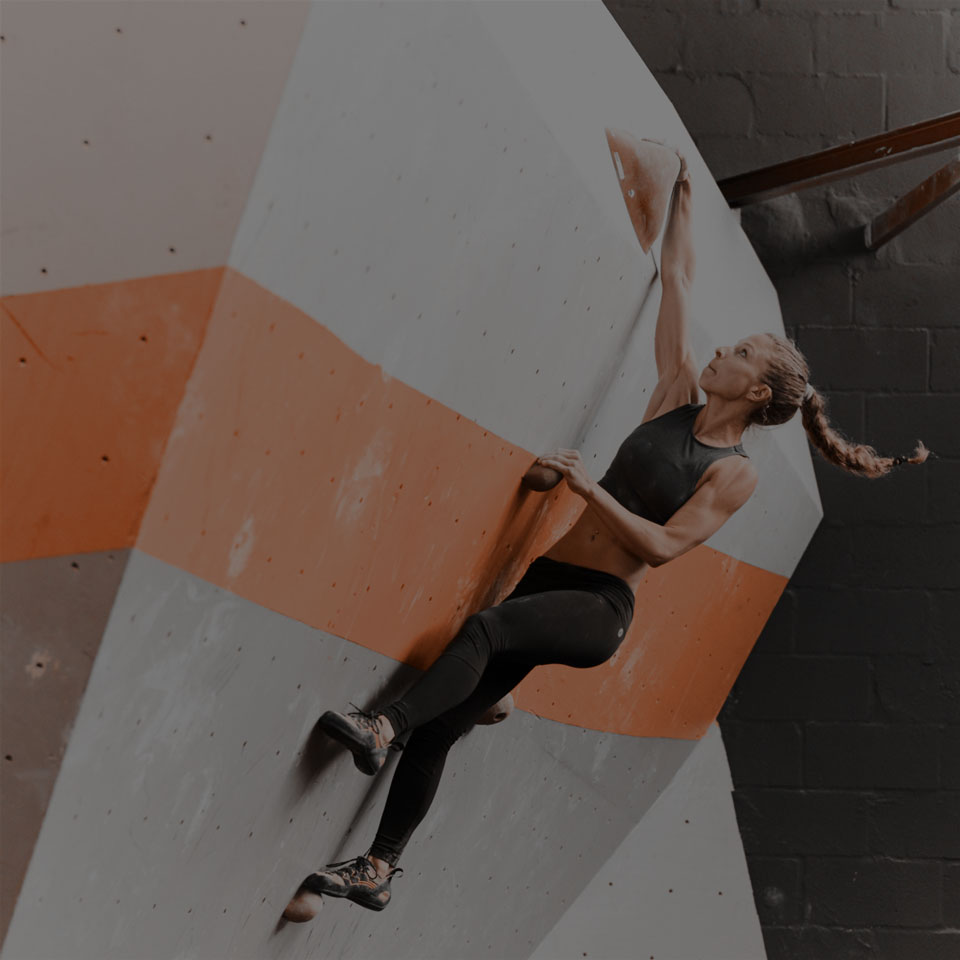
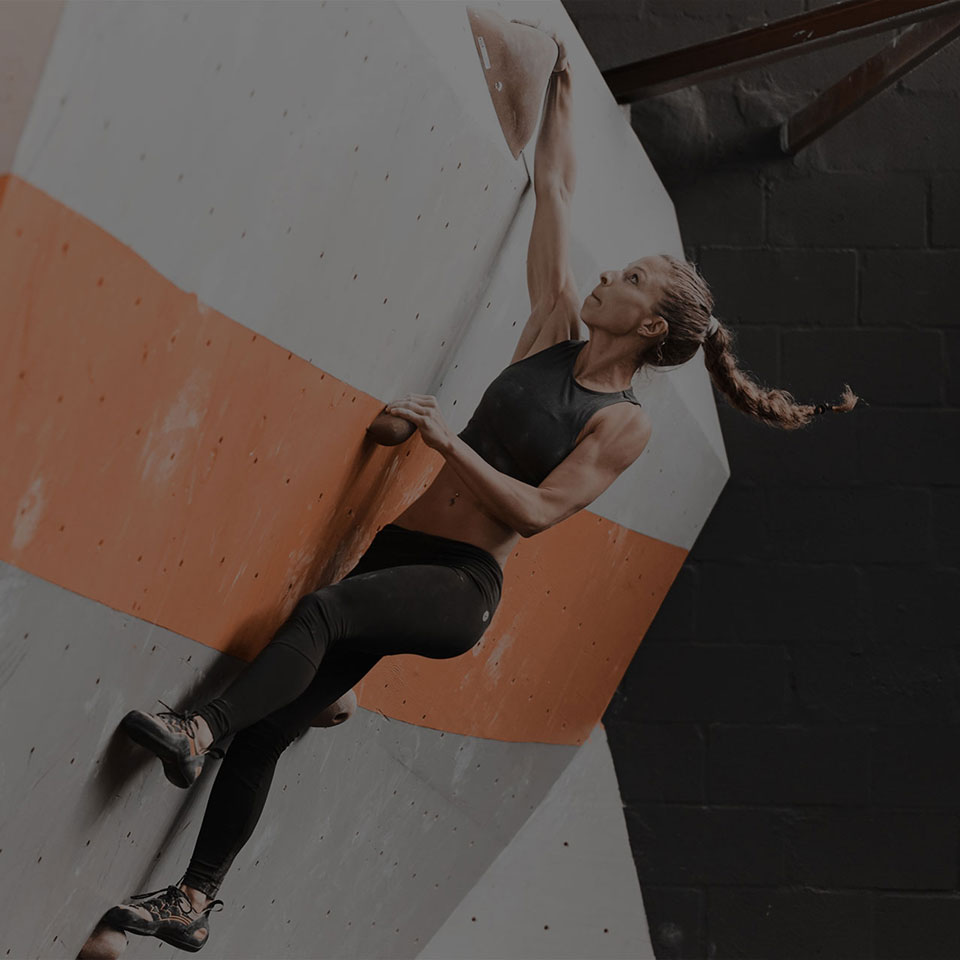
Fix Hero image and gallery layout

diff --git a/css/styles.min.css b/css/styles.min.css
@@ -1,1 +1,1 @@
-/*! normalize.css v8.0.1 | MIT License | github.com/necolas/normalize.css */html{line-height:1.15;-webkit-text-size-adjust:100%}body{margin:0}main{display:block}h1{font-size:2em;margin:.67em 0}hr{box-sizing:content-box;height:0;overflow:visible}pre{font-family:monospace,monospace;font-size:1em}a{background-color:transparent}abbr[title]{border-bottom:none;text-decoration:underline;text-decoration:underline dotted}b,strong{font-weight:bolder}code,kbd,samp{font-family:monospace,monospace;font-size:1em}small{font-size:80%}sub,sup{font-size:75%;line-height:0;position:relative;vertical-align:baseline}sub{bottom:-.25em}sup{top:-.5em}img{border-style:none}button,input,optgroup,select,textarea{font-family:inherit;font-size:100%;line-height:1.15;margin:0}button,input{overflow:visible}button,select{text-transform:none}[type=button],[type=reset],[type=submit],button{-webkit-appearance:button}[type=button]::-moz-focus-inner,[type=reset]::-moz-focus-inner,[type=submit]::-moz-focus-inner,button::-moz-focus-inner{border-style:none;padding:0}[type=button]:-moz-focusring,[type=reset]:-moz-focusring,[type=submit]:-moz-focusring,button:-moz-focusring{outline:1px dotted ButtonText}fieldset{padding:.35em .75em .625em}legend{box-sizing:border-box;color:inherit;display:table;max-width:100%;padding:0;white-space:normal}progress{vertical-align:baseline}textarea{overflow:auto}[type=checkbox],[type=radio]{box-sizing:border-box;padding:0}[type=number]::-webkit-inner-spin-button,[type=number]::-webkit-outer-spin-button{height:auto}[type=search]{-webkit-appearance:textfield;outline-offset:-2px}[type=search]::-webkit-search-decoration{-webkit-appearance:none}::-webkit-file-upload-button{-webkit-appearance:button;font:inherit}details{display:block}summary{display:list-item}template{display:none}[hidden]{display:none}.container{width:100%;margin-left:auto;margin-right:auto}.row{position:relative;width:100%}.row:after{content:"";display:table;clear:both}.row [class^=col]{float:left}.col-1,.col-10,.col-11,.col-12,.col-2,.col-3,.col-4,.col-5,.col-6,.col-7,.col-8,.col-9{width:100%}@media only screen and (min-width:540px){.col-1{width:8.33333%}.col-2{width:16.66667%}.col-3{width:25%}.col-4{width:33.33333%}.col-5{width:41.66667%}.col-6{width:50%}.col-7{width:58.33333%}.col-8{width:66.66667%}.col-9{width:75%}.col-10{width:83.33333%}.col-11{width:91.66667%}.col-12{width:100%}}.modal{position:fixed;top:0;left:0;width:100%;height:100vh;display:flex;justify-content:center;align-items:center;z-index:2000;overflow:hidden;background-color:rgba(0,0,0,.6)}.modal .modal-content{position:relative;display:flex;flex-direction:column;align-items:center;justify-content:flex-start;max-width:80%;max-height:80%;margin:0;padding:2.5rem;background-color:#fff;border-radius:.3125rem;box-shadow:0 0 2.5rem rgba(0,0,0,.5)}.modal .modal-content .close-btn{position:relative;bottom:1rem;left:1rem;margin-top:0;margin-left:auto;z-index:1;border:none;background-color:transparent;color:#000}.modal .modal-content .close-btn:hover{cursor:pointer}.modal .modal-content .modal-body{position:relative;display:block;overflow-y:auto}.modal .modal-content .modal-footer{position:relative;display:flex;align-items:center;justify-content:flex-end;width:100%;margin:0;padding:1.875rem 0 0}.modal.closed{display:none;height:0;z-index:-1000}.packages{overflow:auto;padding:30px 0;overflow-x:hidden}.packages .option{box-sizing:border-box;text-align:center;margin-bottom:50px}.packages .wrapper{box-sizing:border-box;width:240px;min-height:240px;padding:20px 20px 20px 0;border-top:2px solid #939598;border-right:2px solid #939598;border-bottom:2px solid #939598;display:inline-block;position:relative}.packages .wrapper:after,.packages .wrapper:before{content:"";width:2px;height:20px;position:absolute;left:0;background-color:#939598}.packages .wrapper:before{top:0}.packages .wrapper:after{bottom:0}.packages .title{font-size:40px;text-transform:uppercase;color:#fafbff;text-align:left;margin-top:40px;letter-spacing:0;font-weight:600}.packages .title.option3{font-size:37px;line-height:1}.packages .price{font-size:24px;color:#f26522;text-align:left;margin-bottom:20px}.packages .text{font-size:24px;color:#f26522;text-align:left;margin-bottom:20px}.packages .info{width:240px;font-size:12px;line-height:1.5;color:#9e9e9e;text-align:left;display:block;margin:30px auto 0}.tooltip{position:relative;display:inline-block}.tooltip:hover .tip{visibility:visible}.tooltip .tip{visibility:hidden;min-width:120px;width:200px;background-color:#373734;color:#fafbff;text-align:center;border-radius:6px;padding:5px 10px;position:absolute;z-index:1;top:-5px;left:110%}.tooltip .tip:after{content:"";position:absolute;top:50%;right:100%;margin-top:-5px;border-width:5px;border-style:solid;border-color:transparent #373734 transparent transparent}a{color:#373734;text-decoration:none}body{font-family:proximanova;letter-spacing:2px}.full-width{max-width:960px;min-width:320px;margin:0 auto}input[type=email],input[type=text]{border:1px solid #e7e7e7;padding:10px;font-size:15px;width:70%;margin-bottom:10px}input[type=email]:focus,input[type=text]:focus{outline:0}label{color:#f26522;margin-left:10px}textarea{box-sizing:border-box;display:block;border:1px solid #e7e7e7;padding:10px;font-size:15px;width:100%;margin:0}input[type=submit]{border:none;background-color:#f26522;color:#fafbff;letter-spacing:2px;padding:10px 20px;margin-top:10px;display:inline-block;font-size:14px;float:right}section{padding-bottom:80px;border-bottom:5px solid #fafbff}@font-face{font-family:proximanova;font-style:normal;font-weight:200;src:url(/fonts/proximanova/proximanova.thin.eot?#iefix) format("embedded-opentype"),url(/fonts/proximanova/proximanova.thin.woff) format("woff"),url(/fonts/proximanova/proximanova.thin.ttf) format("truetype"),url(/fonts/proximanova/proximanova.thin.svg#proximanova) format("svg")}@font-face{font-family:proximanova;font-style:italic;font-weight:200;src:url(/fonts/proximanova/proximanova.thinitalic.eot?#iefix) format("embedded-opentype"),url(/fonts/proximanova/proximanova.thinitalic.woff) format("woff"),url(/fonts/proximanova/proximanova.thinitalic.ttf) format("truetype"),url(/fonts/proximanova/proximanova.thinitalic.svg#proximanova) format("svg")}@font-face{font-family:proximanova;font-style:normal;font-weight:300;src:url(/fonts/proximanova/proximanova.light.eot?#iefix) format("embedded-opentype"),url(/fonts/proximanova/proximanova.light.woff) format("woff"),url(/fonts/proximanova/proximanova.light.ttf) format("truetype"),url(/fonts/proximanova/proximanova.light.svg#proximanova) format("svg")}@font-face{font-family:proximanova;font-style:italic;font-weight:300;src:url(/fonts/proximanova/proximanova.light.italic.eot?#iefix) format("embedded-opentype"),url(/fonts/proximanova/proximanova.light.italic.woff) format("woff"),url(/fonts/proximanova/proximanova.light.italic.ttf) format("truetype"),url(/fonts/proximanova/proximanova.light.italic.svg#proximanova) format("svg")}@font-face{font-family:proximanova;font-style:normal;font-weight:400;src:url(/fonts/proximanova/proximanova.regular.eot?#iefix) format("embedded-opentype"),url(/fonts/proximanova/proximanova.regular.woff) format("woff"),url(/fonts/proximanova/proximanova.regular.ttf) format("truetype"),url(/fonts/proximanova/proximanova.regular.svg#proximanova) format("svg")}@font-face{font-family:proximanova;font-style:italic;font-weight:400;src:url(/fonts/proximanova/proximanova.regular.italic.eot?#iefix) format("embedded-opentype"),url(/fonts/proximanova/proximanova.regular.italic.woff) format("woff"),url(/fonts/proximanova/proximanova.regular.italic.ttf) format("truetype"),url(/fonts/proximanova/proximanova.regular.italic.svg#proximanova) format("svg")}@font-face{font-family:proximanova;font-style:normal;font-weight:700;src:url(/fonts/proximanova/proximanova.bold.eot?#iefix) format("embedded-opentype"),url(/fonts/proximanova/proximanova.bold.woff) format("woff"),url(/fonts/proximanova/proximanova.bold.ttf) format("truetype"),url(/fonts/proximanova/proximanova.bold.svg#proximanova) format("svg")}@font-face{font-family:proximanova;font-style:italic;font-weight:700;src:url(/fonts/proximanova/proximanova.bold.italic.eot?#iefix) format("embedded-opentype"),url(/fonts/proximanova/proximanova.bold.italic.woff) format("woff"),url(/fonts/proximanova/proximanova.bold.italic.ttf) format("truetype"),url(/fonts/proximanova/proximanova.bold.italic.svg#proximanova) format("svg")}@font-face{font-family:proximanova;font-style:normal;font-weight:600;src:url(/fonts/proximanova/proximanova.ebold.eot?#iefix) format("embedded-opentype"),url(/fonts/proximanova/proximanova.ebold.woff) format("woff"),url(/fonts/proximanova/proximanova.ebold.ttf) format("truetype"),url(/fonts/proximanova/proximanova.ebold.svg#proximanova) format("svg")}@font-face{font-family:proximanova;font-style:italic;font-weight:600;src:url(/fonts/proximanova/proximanova.ebold.italic.eot?#iefix) format("embedded-opentype"),url(/fonts/proximanova/proximanova.ebold.italic.woff) format("woff"),url(/fonts/proximanova/proximanova.ebold.italic.ttf) format("truetype"),url(/fonts/proximanova/proximanova.ebold.italic.svg#proximanova) format("svg")}h2{color:#f26522;text-transform:uppercase;margin:0;padding:50px 30px;text-align:center}h2.light{color:#fafbff}h2.underline{border-bottom:2px solid #fafbff;display:inline-block;padding:50px 0 20px 0;margin-bottom:50px;position:relative}h2.underline:after,h2.underline:before{position:absolute;content:"";width:14px;height:14px;border-radius:10px;background-color:#fafbff;bottom:-8px}h2.underline:after{right:0}h2.underline:before{left:0}h3{color:#373734;text-transform:uppercase;margin:0;font-size:18px;font-weight:400}p{margin:0;font-weight:300;font-size:13px;line-height:1.5}p.dark{color:#6d6b71}p.center{text-align:center}@font-face{font-family:icons;src:url(/fonts/icons/icons.eot?24kygq);src:url(/fonts/icons/icons.eot?24kygq#iefix) format("embedded-opentype"),url(/fonts/icons/icons.ttf?24kygq) format("truetype"),url(/fonts/icons/icons.woff?24kygq) format("woff"),url(/fonts/icons/icons.svg?24kygq#icons) format("svg");font-weight:400;font-style:normal}[class*=" icon-"],[class^=icon-]{font-family:icons!important;speak:none;font-style:normal;font-weight:400;font-variant:normal;text-transform:none;line-height:1;-webkit-font-smoothing:antialiased;-moz-osx-font-smoothing:grayscale}.icon-triangle:before{content:"\e900"}.icon-facebook:before{content:"\e901"}.icon-twitter:before{content:"\e902"}.icon-logo:before{content:"\e903"}.icon-lines:before{content:"\e904"}.icon-instagram:before{content:"\e905"}.icon-coffee:before{content:"\e906"}.icon-yoga:before{content:"\e907"}.icon-physio:before{content:"\e908"}.icon-mountain:before{content:"\e909"}.icon-left:before{content:"\e90a"}.icon-up:before{content:"\e90b"}.icon-right:before{content:"\e90c"}.icon-down:before{content:"\e90d"}.icon-menu:before{content:"\e90e"}.icon-youtube:before{content:"\e90f"}header.main{position:fixed;left:0;top:0;right:0;padding-top:20px;z-index:100;transition:.3s ease-in-out}header.main a{color:#fafbff}header.main.floating{padding-top:0;background-color:#fafbff;opacity:.95}header.main.floating a{color:#373734}header.main.floating nav[role=main] ul li:before{color:#373734}nav[role=main]{max-width:960px;min-width:320px;margin:0 auto}nav[role=main] ul{list-style:none;padding:0;margin:0;margin:0 10%}nav[role=main] ul li{float:left;width:25%;text-align:center;position:relative}nav[role=main] ul li:before{font-family:icons;content:"\e904";display:block;position:absolute;top:-1px;line-height:50px;width:100%;bottom:0;font-size:50px;color:#fafbff;transition:opacity .3s ease-in-out;opacity:0}nav[role=main] ul li:hover:before{opacity:1}nav[role=main] ul a{height:50px;line-height:50px;text-transform:uppercase;display:block;font-size:12px;position:relative;z-index:1;letter-spacing:1px}@media screen and (max-width:600px){nav[role=main] ul{margin:0 5px}nav[role=main] ul a{font-size:10px;letter-spacing:2px;height:40px;line-height:40px}}@media screen and (min-width:960px){.packages .option{width:33%;float:left;margin-bottom:0}}.welcome{position:relative;width:100%;margin:0 auto;height:100vh;background-color:#373734;background-repeat:no-repeat;background-position:center;background-size:cover;z-index:0;padding-top:20vh;box-sizing:border-box}.welcome .brand{max-width:960px;min-width:320px;margin:0 auto;text-align:center;color:#fafbff}.welcome .icon-logo{display:block;font-size:25vh;margin-bottom:20px}.welcome .tagline{text-transform:uppercase;letter-spacing:4px}.welcome{background-image:url(/img/hero/hero-1-540x540x60.jpg)}@media screen and (min-width:540px){.welcome{background-image:url(/img/hero/hero-1-720x1008x60.jpg)}}@media screen and (min-width:720px){.welcome{background-image:url(/img/hero/hero-1-960x960x60.jpg)}}@media screen and (min-width:960px){.welcome{background-image:url(/img/hero/hero-1-1280x1280x60.jpg)}}@media screen and (min-width:1280px){.welcome{background-image:url(/img/hero/hero-1-2560x1280x60.jpg)}}@media screen and (min-width:380px){.welcome .icon-logo{font-size:30vh}}@media screen and (min-width:600px){.welcome .icon-logo{font-size:40vh}}@media screen and (max-height:420px){.welcome{padding-top:80px}.welcome .icon-logo{font-size:200px!important}}.social{max-width:960px;min-width:320px;margin:16vh auto 0;text-align:center}.social ul{display:inline-block;list-style:none;margin:0;padding:0;position:relative}.social ul:after,.social ul:before{content:"";height:2px;position:absolute;left:-70px;width:80px;background-color:#fff;top:18.5px}.social ul:after{left:initial;right:-70px}.social ul li{float:left;border:2px solid #fafbff;border-radius:38px;height:38px;margin:0 10px}.social ul a{color:#fafbff;font-size:18px;padding:10px;line-height:38px}.social ul a:before{left:1px;position:relative}.social ul .icon-instagram{font-size:16px}.link-banner{background-color:rgba(0,0,0,.5);position:absolute;bottom:0;text-transform:uppercase;text-align:center;font-size:1.5rem;font-weight:300;width:100%}.link-banner a{display:block;padding:5px 0;width:100%;color:#fff}.link-banner:hover{background-color:#fff}.link-banner:hover a{color:#000}.notice-board{background-color:#f26522;background-image:url(/img/pattern/pattern-dark.svg);color:#fafbff}.notice-board .full-width{padding-top:60px}.notice-board .message{margin:30px 20px;padding:30px 20px;text-align:center;border-top:2px solid #ffffff6b;border-bottom:2px solid #ffffff6b}.notice-board .message h3{color:#fafbff;font-size:3rem;font-weight:300}.notice-board .message p{color:#000;font-size:1.2rem;font-weight:400;padding:0 10px}.notice-board .promotion{margin:60px 20px;position:relative;padding:60px 40px 60px 10px;border-top:2px solid #ffffff6b;border-right:2px solid #ffffff6b;border-bottom:2px solid #ffffff6b}.notice-board .promotion .title{color:#fafbff;font-size:2rem;font-weight:600}.notice-board .promotion .text{color:#000;font-size:1.2rem;font-weight:500}.notice-board .promotion .info{margin-top:10px;color:#000;font-size:.8rem}.notice-board .promotion:after,.notice-board .promotion:before{content:"";width:2px;height:20px;position:absolute;left:0;background-color:#ffffff6b}.notice-board .promotion:before{top:0}.notice-board .promotion:after{bottom:0}#movie{background-color:#373734;background-image:url(/img/pattern/pattern-black.svg);padding-top:80px}#movie .video-container{position:relative;padding-bottom:56.25%;overflow:hidden;z-index:1;background-color:rgba(0,0,0,.3);-webkit-box-shadow:0 10px 30px 0 rgba(0,0,0,.3);-moz-box-shadow:0 10px 30px 0 rgba(0,0,0,.3);box-shadow:0 10px 30px 0 rgba(0,0,0,.3)}#movie .video-container iframe{z-index:2;left:0;top:0;height:100%;width:100%;position:absolute}.facilities{background-color:#373734;padding-bottom:0}.facilities .half-width{max-width:480px;min-width:175px;margin:0 auto}.facilities .right{margin-right:10px;margin-left:10px;padding-right:10px;padding-left:10px}.facilities .left{margin-right:10px;margin-left:10px;padding-right:10px;padding-left:10px}.facilities #coffee,.facilities #gym,.facilities #physio,.facilities #yoga{background-repeat:no-repeat;background-position:center;background-size:cover;padding-top:90px;padding-bottom:90px;min-height:20rem}.facilities #gym{background-image:url(/img/gym/gym-600.jpg)}.facilities #yoga{background-image:url(/img/yoga/yoga-600.jpg)}.facilities #physio{background-image:url(/img/physio/physio-600.jpg)}.facilities #coffee{background-image:url(/img/coffee/coffee-600.jpg)}.facilities .facility{background-color:rgba(0,0,0,.6);color:#fafbff;text-align:center;padding:1rem 1rem 3rem 1rem;min-height:15em}.facilities h3{margin-top:30px;color:#fff;font-size:2rem}.facilities button{margin-top:2rem;border:none;background-color:transparent;color:#f26522}.facilities button:hover{color:#fafbff;cursor:pointer}.facilities i{display:block;color:#fafbff;font-size:50px;margin:20px auto 30px auto}.facilities .modal-content{text-align:center}.facilities .modal-content h2{padding-top:0}.facilities .modal-content h4{margin-bottom:5px}.facilities .modal-content img{max-width:600px;padding-bottom:60px}@media screen and (min-width:600px){.facilities .right{margin-right:0;padding-right:10px;margin-left:auto}.facilities .left{margin-left:0;padding-left:10px;margin-right:auto}}@media screen and (min-width:1200px){#gym{background-image:url(/img/gym/gym-900.jpg)}#yoga{background-image:url(/img/yoga/yoga-900.jpg)}#physio{background-image:url(/img/physio/physio-900.jpg)}#coffee{background-image:url(/img/coffee/coffee-900.jpg)}}@media screen and (min-width:1800px){#gym{background-image:url(/img/gym/gym-1280.jpg)}#yoga{background-image:url(/img/yoga/yoga-1280.jpg)}#physio{background-image:url(/img/physio/physio-1280.jpg)}#coffee{background-image:url(/img/coffee/coffee-1280.jpg)}}.hours{background-color:#bcbdc0;background-image:url(/img/pattern/pattern-dark.svg)}.hours h2{color:#fafbff}.hours table{margin:0 auto}.hours td{padding:2px 10px}.hours .large td{content:"";height:1rem}.hours .day{color:#373734}.hours .time{font-weight:500}.prices{background-color:#373734;background-image:url(/img/pattern/pattern-black.svg)}.prices h2{padding-bottom:20px}.prices p{margin-bottom:30px}@media screen and (min-width:600px){.prices p{margin:0 80px}}@media screen and (min-width:960px){.prices p{margin:0 120px}}.gallery{background-color:#373734;background-image:url(/img/pattern/pattern-black.svg);display:flex;justify-content:center;flex-wrap:nowrap;padding-bottom:0}.gallery .img-slot-hidden{display:none}@media screen and (max-width:1200px){.gallery{flex-wrap:wrap}.gallery .img-slot-hidden{display:block}.gallery .img-slot{width:50%}}@media screen and (min-width:1800px){.gallery .img-slot-hidden{display:block}}.about{background-color:#bcbdc0;background-image:url(/img/pattern/pattern-dark.svg);background-position:right;text-align:center}.about h2{color:#fafbff}.about img{width:200px;margin-bottom:30px}.about p{padding:0 15px;color:#fff}.about a{display:inline-block;margin-top:20px;color:#fff;font-weight:700}.about a:hover{color:#373734}.contact{background-color:#fafbff;background-image:url(/img/pattern/pattern-light.svg);background-position:right}.contact h2{color:#373734;padding-bottom:20px}.contact .info{font-size:15px;font-weight:300;width:85%;margin:0 auto;text-align:center}.contact .wrapper{margin-top:50px}.contact .details{box-sizing:border-box;width:80%;margin:0 auto;text-align:center;font-weight:300;font-size:13px;line-height:1.5}.contact .name{font-weight:700}.contact .address,.contact .name,.contact .phone{margin-bottom:20px}.contact #contact-form{box-sizing:border-box;display:block;float:left;width:65%;padding-left:10%}.contact #contact-form h3{margin-bottom:20px}.contact strong{display:inline-block;width:25px}.contact a{color:#f26522}.location{width:100%;height:60vh;position:relative}.location #map{position:absolute;top:0;width:100%;height:100%}.location #map-overlay{position:absolute;top:0;width:100%;height:100%}.location #map-overlay.hide{display:none}
+/*! normalize.css v8.0.1 | MIT License | github.com/necolas/normalize.css */html{line-height:1.15;-webkit-text-size-adjust:100%}body{margin:0}main{display:block}h1{font-size:2em;margin:.67em 0}hr{box-sizing:content-box;height:0;overflow:visible}pre{font-family:monospace,monospace;font-size:1em}a{background-color:transparent}abbr[title]{border-bottom:none;text-decoration:underline;text-decoration:underline dotted}b,strong{font-weight:bolder}code,kbd,samp{font-family:monospace,monospace;font-size:1em}small{font-size:80%}sub,sup{font-size:75%;line-height:0;position:relative;vertical-align:baseline}sub{bottom:-.25em}sup{top:-.5em}img{border-style:none}button,input,optgroup,select,textarea{font-family:inherit;font-size:100%;line-height:1.15;margin:0}button,input{overflow:visible}button,select{text-transform:none}[type=button],[type=reset],[type=submit],button{-webkit-appearance:button}[type=button]::-moz-focus-inner,[type=reset]::-moz-focus-inner,[type=submit]::-moz-focus-inner,button::-moz-focus-inner{border-style:none;padding:0}[type=button]:-moz-focusring,[type=reset]:-moz-focusring,[type=submit]:-moz-focusring,button:-moz-focusring{outline:1px dotted ButtonText}fieldset{padding:.35em .75em .625em}legend{box-sizing:border-box;color:inherit;display:table;max-width:100%;padding:0;white-space:normal}progress{vertical-align:baseline}textarea{overflow:auto}[type=checkbox],[type=radio]{box-sizing:border-box;padding:0}[type=number]::-webkit-inner-spin-button,[type=number]::-webkit-outer-spin-button{height:auto}[type=search]{-webkit-appearance:textfield;outline-offset:-2px}[type=search]::-webkit-search-decoration{-webkit-appearance:none}::-webkit-file-upload-button{-webkit-appearance:button;font:inherit}details{display:block}summary{display:list-item}template{display:none}[hidden]{display:none}.container{width:100%;margin-left:auto;margin-right:auto}.row{position:relative;width:100%}.row:after{content:"";display:table;clear:both}.row [class^=col]{float:left}.col-1,.col-10,.col-11,.col-12,.col-2,.col-3,.col-4,.col-5,.col-6,.col-7,.col-8,.col-9{width:100%}@media only screen and (min-width:540px){.col-1{width:8.33333%}.col-2{width:16.66667%}.col-3{width:25%}.col-4{width:33.33333%}.col-5{width:41.66667%}.col-6{width:50%}.col-7{width:58.33333%}.col-8{width:66.66667%}.col-9{width:75%}.col-10{width:83.33333%}.col-11{width:91.66667%}.col-12{width:100%}}.modal{position:fixed;top:0;left:0;width:100%;height:100vh;display:flex;justify-content:center;align-items:center;z-index:2000;overflow:hidden;background-color:rgba(0,0,0,.6)}.modal .modal-content{position:relative;display:flex;flex-direction:column;align-items:center;justify-content:flex-start;max-width:80%;max-height:80%;margin:0;padding:2.5rem;background-color:#fff;border-radius:.3125rem;box-shadow:0 0 2.5rem rgba(0,0,0,.5)}.modal .modal-content .close-btn{position:relative;bottom:1rem;left:1rem;margin-top:0;margin-left:auto;z-index:1;border:none;background-color:transparent;color:#000}.modal .modal-content .close-btn:hover{cursor:pointer}.modal .modal-content .modal-body{position:relative;display:block;overflow-y:auto}.modal .modal-content .modal-footer{position:relative;display:flex;align-items:center;justify-content:flex-end;width:100%;margin:0;padding:1.875rem 0 0}.modal.closed{display:none;height:0;z-index:-1000}.packages{overflow:auto;padding:30px 0;overflow-x:hidden}.packages .option{box-sizing:border-box;text-align:center;margin-bottom:50px}.packages .wrapper{box-sizing:border-box;width:240px;min-height:240px;padding:20px 20px 20px 0;border-top:2px solid #939598;border-right:2px solid #939598;border-bottom:2px solid #939598;display:inline-block;position:relative}.packages .wrapper:after,.packages .wrapper:before{content:"";width:2px;height:20px;position:absolute;left:0;background-color:#939598}.packages .wrapper:before{top:0}.packages .wrapper:after{bottom:0}.packages .title{font-size:40px;text-transform:uppercase;color:#fafbff;text-align:left;margin-top:40px;letter-spacing:0;font-weight:600}.packages .title.option3{font-size:37px;line-height:1}.packages .price{font-size:24px;color:#f26522;text-align:left;margin-bottom:20px}.packages .text{font-size:24px;color:#f26522;text-align:left;margin-bottom:20px}.packages .info{width:240px;font-size:12px;line-height:1.5;color:#9e9e9e;text-align:left;display:block;margin:30px auto 0}a{color:#373734;text-decoration:none}body{font-family:proximanova;letter-spacing:2px}.full-width{max-width:960px;min-width:320px;margin:0 auto}input[type=email],input[type=text]{border:1px solid #e7e7e7;padding:10px;font-size:15px;width:70%;margin-bottom:10px}input[type=email]:focus,input[type=text]:focus{outline:0}label{color:#f26522;margin-left:10px}textarea{box-sizing:border-box;display:block;border:1px solid #e7e7e7;padding:10px;font-size:15px;width:100%;margin:0}input[type=submit]{border:none;background-color:#f26522;color:#fafbff;letter-spacing:2px;padding:10px 20px;margin-top:10px;display:inline-block;font-size:14px;float:right}section{padding-bottom:80px;border-bottom:5px solid #fafbff}@font-face{font-family:proximanova;font-style:normal;font-weight:200;src:url(/fonts/proximanova/proximanova.thin.eot?#iefix) format("embedded-opentype"),url(/fonts/proximanova/proximanova.thin.woff) format("woff"),url(/fonts/proximanova/proximanova.thin.ttf) format("truetype"),url(/fonts/proximanova/proximanova.thin.svg#proximanova) format("svg")}@font-face{font-family:proximanova;font-style:italic;font-weight:200;src:url(/fonts/proximanova/proximanova.thinitalic.eot?#iefix) format("embedded-opentype"),url(/fonts/proximanova/proximanova.thinitalic.woff) format("woff"),url(/fonts/proximanova/proximanova.thinitalic.ttf) format("truetype"),url(/fonts/proximanova/proximanova.thinitalic.svg#proximanova) format("svg")}@font-face{font-family:proximanova;font-style:normal;font-weight:300;src:url(/fonts/proximanova/proximanova.light.eot?#iefix) format("embedded-opentype"),url(/fonts/proximanova/proximanova.light.woff) format("woff"),url(/fonts/proximanova/proximanova.light.ttf) format("truetype"),url(/fonts/proximanova/proximanova.light.svg#proximanova) format("svg")}@font-face{font-family:proximanova;font-style:italic;font-weight:300;src:url(/fonts/proximanova/proximanova.light.italic.eot?#iefix) format("embedded-opentype"),url(/fonts/proximanova/proximanova.light.italic.woff) format("woff"),url(/fonts/proximanova/proximanova.light.italic.ttf) format("truetype"),url(/fonts/proximanova/proximanova.light.italic.svg#proximanova) format("svg")}@font-face{font-family:proximanova;font-style:normal;font-weight:400;src:url(/fonts/proximanova/proximanova.regular.eot?#iefix) format("embedded-opentype"),url(/fonts/proximanova/proximanova.regular.woff) format("woff"),url(/fonts/proximanova/proximanova.regular.ttf) format("truetype"),url(/fonts/proximanova/proximanova.regular.svg#proximanova) format("svg")}@font-face{font-family:proximanova;font-style:italic;font-weight:400;src:url(/fonts/proximanova/proximanova.regular.italic.eot?#iefix) format("embedded-opentype"),url(/fonts/proximanova/proximanova.regular.italic.woff) format("woff"),url(/fonts/proximanova/proximanova.regular.italic.ttf) format("truetype"),url(/fonts/proximanova/proximanova.regular.italic.svg#proximanova) format("svg")}@font-face{font-family:proximanova;font-style:normal;font-weight:700;src:url(/fonts/proximanova/proximanova.bold.eot?#iefix) format("embedded-opentype"),url(/fonts/proximanova/proximanova.bold.woff) format("woff"),url(/fonts/proximanova/proximanova.bold.ttf) format("truetype"),url(/fonts/proximanova/proximanova.bold.svg#proximanova) format("svg")}@font-face{font-family:proximanova;font-style:italic;font-weight:700;src:url(/fonts/proximanova/proximanova.bold.italic.eot?#iefix) format("embedded-opentype"),url(/fonts/proximanova/proximanova.bold.italic.woff) format("woff"),url(/fonts/proximanova/proximanova.bold.italic.ttf) format("truetype"),url(/fonts/proximanova/proximanova.bold.italic.svg#proximanova) format("svg")}@font-face{font-family:proximanova;font-style:normal;font-weight:600;src:url(/fonts/proximanova/proximanova.ebold.eot?#iefix) format("embedded-opentype"),url(/fonts/proximanova/proximanova.ebold.woff) format("woff"),url(/fonts/proximanova/proximanova.ebold.ttf) format("truetype"),url(/fonts/proximanova/proximanova.ebold.svg#proximanova) format("svg")}@font-face{font-family:proximanova;font-style:italic;font-weight:600;src:url(/fonts/proximanova/proximanova.ebold.italic.eot?#iefix) format("embedded-opentype"),url(/fonts/proximanova/proximanova.ebold.italic.woff) format("woff"),url(/fonts/proximanova/proximanova.ebold.italic.ttf) format("truetype"),url(/fonts/proximanova/proximanova.ebold.italic.svg#proximanova) format("svg")}h2{color:#f26522;text-transform:uppercase;margin:0;padding:50px 30px;text-align:center}h2.light{color:#fafbff}h2.underline{border-bottom:2px solid #fafbff;display:inline-block;padding:50px 0 20px 0;margin-bottom:50px;position:relative}h2.underline:after,h2.underline:before{position:absolute;content:"";width:14px;height:14px;border-radius:10px;background-color:#fafbff;bottom:-8px}h2.underline:after{right:0}h2.underline:before{left:0}h3{color:#373734;text-transform:uppercase;margin:0;font-size:18px;font-weight:400}p{margin:0;font-weight:300;font-size:13px;line-height:1.5}p.dark{color:#6d6b71}p.center{text-align:center}@font-face{font-family:icons;src:url(/fonts/icons/icons.eot?24kygq);src:url(/fonts/icons/icons.eot?24kygq#iefix) format("embedded-opentype"),url(/fonts/icons/icons.ttf?24kygq) format("truetype"),url(/fonts/icons/icons.woff?24kygq) format("woff"),url(/fonts/icons/icons.svg?24kygq#icons) format("svg");font-weight:400;font-style:normal}[class*=" icon-"],[class^=icon-]{font-family:icons!important;speak:none;font-style:normal;font-weight:400;font-variant:normal;text-transform:none;line-height:1;-webkit-font-smoothing:antialiased;-moz-osx-font-smoothing:grayscale}.icon-triangle:before{content:"\e900"}.icon-facebook:before{content:"\e901"}.icon-twitter:before{content:"\e902"}.icon-logo:before{content:"\e903"}.icon-lines:before{content:"\e904"}.icon-instagram:before{content:"\e905"}.icon-coffee:before{content:"\e906"}.icon-yoga:before{content:"\e907"}.icon-physio:before{content:"\e908"}.icon-mountain:before{content:"\e909"}.icon-left:before{content:"\e90a"}.icon-up:before{content:"\e90b"}.icon-right:before{content:"\e90c"}.icon-down:before{content:"\e90d"}.icon-menu:before{content:"\e90e"}.icon-youtube:before{content:"\e90f"}header.main{position:fixed;left:0;top:0;right:0;padding-top:20px;z-index:100;transition:.3s ease-in-out}header.main a{color:#fafbff}header.main.floating{padding-top:0;background-color:#fafbff;opacity:.95}header.main.floating a{color:#373734}header.main.floating nav[role=main] ul li:before{color:#373734}nav[role=main]{max-width:960px;min-width:320px;margin:0 auto}nav[role=main] ul{list-style:none;padding:0;margin:0;margin:0 10%}nav[role=main] ul li{float:left;width:25%;text-align:center;position:relative}nav[role=main] ul li:before{font-family:icons;content:"\e904";display:block;position:absolute;top:-1px;line-height:50px;width:100%;bottom:0;font-size:50px;color:#fafbff;transition:opacity .3s ease-in-out;opacity:0}nav[role=main] ul li:hover:before{opacity:1}nav[role=main] ul a{height:50px;line-height:50px;text-transform:uppercase;display:block;font-size:12px;position:relative;z-index:1;letter-spacing:1px}@media screen and (max-width:600px){nav[role=main] ul{margin:0 5px}nav[role=main] ul a{font-size:10px;letter-spacing:2px;height:40px;line-height:40px}}@media screen and (min-width:960px){.packages .option{width:33%;float:left;margin-bottom:0}}.welcome{position:relative;width:100%;margin:0 auto;height:100vh;background-color:#373734;z-index:0;padding-top:20vh;box-sizing:border-box}.welcome .img-container{position:absolute;width:100%;height:100%;top:0;left:0;overflow:hidden}.welcome .img-full-screen{z-index:-10;position:absolute;left:50%;-webkit-transform:translateX(-50%);-ms-transform:translateX(-50%);transform:translateX(-50%);margin:0 auto;min-height:100%;-webkit-user-select:none;-moz-user-select:none;-ms-user-select:none;user-select:none}.welcome .brand{max-width:960px;min-width:320px;margin:0 auto;text-align:center;color:#fafbff}.welcome .icon-logo{display:block;font-size:25vh;margin-bottom:20px}.welcome .tagline{text-transform:uppercase;letter-spacing:4px}@media screen and (min-width:380px){.welcome .icon-logo{font-size:30vh}}@media screen and (min-width:600px){.welcome .icon-logo{font-size:40vh}}@media screen and (max-height:420px){.welcome{padding-top:80px}.welcome .icon-logo{font-size:200px!important}}.social{max-width:960px;min-width:320px;margin:16vh auto 0;text-align:center}.social ul{display:inline-block;list-style:none;margin:0;padding:0;position:relative}.social ul:after,.social ul:before{content:"";height:2px;position:absolute;left:-70px;width:80px;background-color:#fff;top:18.5px}.social ul:after{left:initial;right:-70px}.social ul li{float:left;border:2px solid #fafbff;border-radius:38px;height:38px;margin:0 10px}.social ul a{color:#fafbff;font-size:18px;padding:10px;line-height:38px}.social ul a:before{left:1px;position:relative}.social ul .icon-instagram{font-size:16px}.link-banner{background-color:rgba(0,0,0,.5);position:absolute;bottom:0;text-transform:uppercase;text-align:center;font-size:1.5rem;font-weight:300;width:100%}.link-banner a{display:block;padding:5px 0;width:100%;color:#fff}.link-banner:hover{background-color:#fff}.link-banner:hover a{color:#000}.notice-board{background-color:#f26522;background-image:url(/img/pattern/pattern-dark.svg);color:#fafbff}.notice-board .full-width{padding-top:60px}.notice-board .message{margin:30px 20px;padding:30px 20px;text-align:center;border-top:2px solid #ffffff6b;border-bottom:2px solid #ffffff6b}.notice-board .message h3{color:#fafbff;font-size:3rem;font-weight:300}.notice-board .message p{color:#000;font-size:1.2rem;font-weight:400;padding:0 10px}.notice-board .promotion{margin:60px 20px;position:relative;padding:60px 40px 60px 10px;border-top:2px solid #ffffff6b;border-right:2px solid #ffffff6b;border-bottom:2px solid #ffffff6b}.notice-board .promotion .title{color:#fafbff;font-size:2rem;font-weight:600}.notice-board .promotion .text{color:#000;font-size:1.2rem;font-weight:500}.notice-board .promotion .info{margin-top:10px;color:#000;font-size:.8rem}.notice-board .promotion:after,.notice-board .promotion:before{content:"";width:2px;height:20px;position:absolute;left:0;background-color:#ffffff6b}.notice-board .promotion:before{top:0}.notice-board .promotion:after{bottom:0}@media screen and (max-width:600px){.notice-board .message h3{font-size:2rem}}#movie{background-color:#373734;background-image:url(/img/pattern/pattern-black.svg);padding-top:80px}#movie .video-container{position:relative;padding-bottom:56.25%;overflow:hidden;z-index:1;background-color:rgba(0,0,0,.3);-webkit-box-shadow:0 10px 30px 0 rgba(0,0,0,.3);-moz-box-shadow:0 10px 30px 0 rgba(0,0,0,.3);box-shadow:0 10px 30px 0 rgba(0,0,0,.3)}#movie .video-container iframe{z-index:2;left:0;top:0;height:100%;width:100%;position:absolute}.facilities{background-color:#373734;padding-bottom:0}.facilities .half-width{max-width:480px;min-width:175px;margin:0 auto}.facilities .right{margin-right:10px;margin-left:10px;padding-right:10px;padding-left:10px}.facilities .left{margin-right:10px;margin-left:10px;padding-right:10px;padding-left:10px}.facilities #coffee,.facilities #gym,.facilities #physio,.facilities #yoga{background-repeat:no-repeat;background-position:center;-webkit-background-size:cover;-moz-background-size:cover;-o-background-size:cover;background-size:cover;padding-top:90px;padding-bottom:90px;min-height:20rem}.facilities #gym{background-image:url(/img/gym/gym-600.jpg)}.facilities #yoga{background-image:url(/img/yoga/yoga-600.jpg)}.facilities #physio{background-image:url(/img/physio/physio-600.jpg)}.facilities #coffee{background-image:url(/img/coffee/coffee-600.jpg)}.facilities .facility{background-color:rgba(0,0,0,.6);color:#fafbff;text-align:center;padding:1rem 1rem 3rem 1rem;min-height:15em}.facilities h3{margin-top:30px;color:#fff;font-size:2rem}.facilities button{margin-top:2rem;border:none;background-color:transparent;color:#f26522}.facilities button:hover{color:#fafbff;cursor:pointer}.facilities i{display:block;color:#fafbff;font-size:50px;margin:20px auto 30px auto}.facilities .modal-content{text-align:center}.facilities .modal-content h2{padding-top:0}.facilities .modal-content h4{margin-bottom:5px}.facilities .modal-content img{max-width:600px;padding-bottom:60px}@media screen and (min-width:600px){.facilities .right{margin-right:0;padding-right:10px;margin-left:auto}.facilities .left{margin-left:0;padding-left:10px;margin-right:auto}}@media screen and (min-width:1200px){#gym{background-image:url(/img/gym/gym-900.jpg)}#yoga{background-image:url(/img/yoga/yoga-900.jpg)}#physio{background-image:url(/img/physio/physio-900.jpg)}#coffee{background-image:url(/img/coffee/coffee-900.jpg)}}@media screen and (min-width:1800px){#gym{background-image:url(/img/gym/gym-1280.jpg)}#yoga{background-image:url(/img/yoga/yoga-1280.jpg)}#physio{background-image:url(/img/physio/physio-1280.jpg)}#coffee{background-image:url(/img/coffee/coffee-1280.jpg)}}.hours{background-color:#bcbdc0;background-image:url(/img/pattern/pattern-dark.svg)}.hours h2{color:#fafbff}.hours table{margin:0 auto}.hours td{padding:2px 10px}.hours .large td{content:"";height:1rem}.hours .day{color:#373734}.hours .time{font-weight:500}.prices{background-color:#373734;background-image:url(/img/pattern/pattern-black.svg)}.prices h2{padding-bottom:20px}.prices p{margin-bottom:30px}@media screen and (min-width:600px){.prices p{margin:0 80px}}@media screen and (min-width:960px){.prices p{margin:0 120px}}.gallery{background-color:#373734;display:flex;justify-content:center;flex-wrap:nowrap;padding-bottom:0}.gallery .img-slot{width:100%;height:100%;min-width:30vw}.gallery .img-slot-hidden{display:none}@media screen and (max-width:1200px){.gallery{flex-wrap:wrap}.gallery .img-slot-hidden{display:block}.gallery .img-slot{width:50%}}@media screen and (min-width:1800px){.gallery .img-slot-hidden{display:block}.gallery .img-slot{min-width:25vw}}.about{background-color:#bcbdc0;background-image:url(/img/pattern/pattern-dark.svg);background-position:right;text-align:center}.about h2{color:#fafbff}.about img{width:200px;margin-bottom:30px}.about p{padding:0 15px;color:#fff}.about a{display:inline-block;margin-top:20px;color:#fff;font-weight:700}.about a:hover{color:#373734}.contact{background-color:#fafbff;background-image:url(/img/pattern/pattern-light.svg);background-position:right}.contact h2{color:#373734;padding-bottom:20px}.contact .info{font-size:15px;font-weight:300;width:85%;margin:0 auto;text-align:center}.contact .wrapper{margin-top:50px}.contact .details{box-sizing:border-box;width:80%;margin:0 auto;text-align:center;font-weight:300;font-size:13px;line-height:1.5}.contact .name{font-weight:700}.contact .address,.contact .name,.contact .phone{margin-bottom:20px}.contact #contact-form{box-sizing:border-box;display:block;float:left;width:65%;padding-left:10%}.contact #contact-form h3{margin-bottom:20px}.contact strong{display:inline-block;width:25px}.contact a{color:#f26522}.location{width:100%;height:60vh;position:relative}.location #map{position:absolute;top:0;width:100%;height:100%}.location #map-overlay{position:absolute;top:0;width:100%;height:100%}.location #map-overlay.hide{display:none}

diff --git a/css/styles.css b/css/styles.css
@@ -475,34 +475,6 @@ template {
     display: block;
     margin: 30px auto 0; }
 
-.tooltip {
-  position: relative;
-  display: inline-block; }
-  .tooltip:hover .tip {
-    visibility: visible; }
-  .tooltip .tip {
-    visibility: hidden;
-    min-width: 120px;
-    width: 200px;
-    background-color: #373734;
-    color: #fafbff;
-    text-align: center;
-    border-radius: 6px;
-    padding: 5px 10px;
-    position: absolute;
-    z-index: 1;
-    top: -5px;
-    left: 110%; }
-    .tooltip .tip:after {
-      content: "";
-      position: absolute;
-      top: 50%;
-      right: 100%;
-      margin-top: -5px;
-      border-width: 5px;
-      border-style: solid;
-      border-color: transparent #373734 transparent transparent; }
-
 a {
   color: #373734;
   text-decoration: none; }
@@ -812,12 +784,29 @@ nav[role=main] {
   margin: 0 auto;
   height: 100vh;
   background-color: #373734;
-  background-repeat: no-repeat;
-  background-position: center;
-  background-size: cover;
   z-index: 0;
   padding-top: 20vh;
   box-sizing: border-box; }
+  .welcome .img-container {
+    position: absolute;
+    width: 100%;
+    height: 100%;
+    top: 0;
+    left: 0;
+    overflow: hidden; }
+  .welcome .img-full-screen {
+    z-index: -10;
+    position: absolute;
+    left: 50%;
+    -webkit-transform: translateX(-50%);
+    -ms-transform: translateX(-50%);
+    transform: translateX(-50%);
+    margin: 0 auto;
+    min-height: 100%;
+    -webkit-user-select: none;
+    -moz-user-select: none;
+    -ms-user-select: none;
+    user-select: none; }
   .welcome .brand {
     max-width: 960px;
     min-width: 320px;
@@ -831,25 +820,6 @@ nav[role=main] {
   .welcome .tagline {
     text-transform: uppercase;
     letter-spacing: 4px; }
-
-.welcome {
-  background-image: url(/img/hero/hero-1-540x540x60.jpg); }
-
-@media screen and (min-width: 540px) {
-  .welcome {
-    background-image: url(/img/hero/hero-1-720x1008x60.jpg); } }
-
-@media screen and (min-width: 720px) {
-  .welcome {
-    background-image: url(/img/hero/hero-1-960x960x60.jpg); } }
-
-@media screen and (min-width: 960px) {
-  .welcome {
-    background-image: url(/img/hero/hero-1-1280x1280x60.jpg); } }
-
-@media screen and (min-width: 1280px) {
-  .welcome {
-    background-image: url(/img/hero/hero-1-2560x1280x60.jpg); } }
 
 @media screen and (min-width: 380px) {
   .welcome .icon-logo {
@@ -975,6 +945,10 @@ nav[role=main] {
     .notice-board .promotion:after {
       bottom: 0; }
 
+@media screen and (max-width: 600px) {
+  .notice-board .message h3 {
+    font-size: 2rem; } }
+
 #movie {
   background-color: #373734;
   background-image: url(/img/pattern/pattern-black.svg);
@@ -1016,6 +990,9 @@ nav[role=main] {
   .facilities #gym, .facilities #yoga, .facilities #physio, .facilities #coffee {
     background-repeat: no-repeat;
     background-position: center;
+    -webkit-background-size: cover;
+    -moz-background-size: cover;
+    -o-background-size: cover;
     background-size: cover;
     padding-top: 90px;
     padding-bottom: 90px;
@@ -1126,11 +1103,14 @@ nav[role=main] {
 
 .gallery {
   background-color: #373734;
-  background-image: url(/img/pattern/pattern-black.svg);
   display: flex;
   justify-content: center;
   flex-wrap: nowrap;
   padding-bottom: 0px; }
+  .gallery .img-slot {
+    width: 100%;
+    height: 100%;
+    min-width: 30vw; }
   .gallery .img-slot-hidden {
     display: none; }
 
@@ -1144,7 +1124,9 @@ nav[role=main] {
 
 @media screen and (min-width: 1800px) {
   .gallery .img-slot-hidden {
-    display: block; } }
+    display: block; }
+  .gallery .img-slot {
+    min-width: 25vw; } }
 
 .about {
   background-color: #bcbdc0;

diff --git a/sass/sections/_welcome.scss b/sass/sections/_welcome.scss
@@ -1,19 +1,40 @@
 // ---------------------- welcome ---------------------- //
 
 .welcome {
+
     position: relative;
     width: 100%;
     margin: 0 auto;
     height: 100vh;
     background-color: $color-grey;
-    //background-image: url(/images/pattern-bg.svg);
-    //background-image: url(/img/hero-1-1280x1280x50.jpg);
-    background-repeat: no-repeat;
-    background-position: center; 
-    background-size:cover;
     z-index: 0;
     padding-top: 20vh;
     box-sizing: border-box;
+    // overflow: hidden;
+
+    .img-container{
+      position: absolute;
+      width: 100%; 
+      height: 100%;
+      top: 0; 
+      left: 0;
+      overflow: hidden;
+    }
+
+    .img-full-screen{
+      z-index: -10;
+      position: absolute; 
+      left: 50%;
+      -webkit-transform: translateX(-50%);
+        -ms-transform: translateX(-50%);
+            transform: translateX(-50%);
+      margin: 0 auto; 
+      min-height: 100%;
+      -webkit-user-select: none;
+       -moz-user-select: none;
+        -ms-user-select: none;
+            user-select: none;
+    }
    
     .brand {
       max-width: $max-width;
@@ -35,37 +56,7 @@
     }
 
   }
-  
-  // set background image by screen size
-  // default
-  .welcome{
-    background-image: url(/img/hero/hero-1-540x540x60.jpg);
-  }
-  // if larger than
-  @media screen and (min-width: 540px){
-    .welcome{
-      background-image: url(/img/hero/hero-1-720x1008x60.jpg);
-    }
-  }
-  // if larger than
-  @media screen and (min-width: 720px){
-    .welcome{
-      background-image: url(/img/hero/hero-1-960x960x60.jpg);
-    }
-  }
-   // if larger than
-   @media screen and (min-width: 960px){
-    .welcome{
-      background-image: url(/img/hero/hero-1-1280x1280x60.jpg);
-    }
-  }
-  // if larger than
-  @media screen and (min-width: 1280px){
-    .welcome{
-      background-image: url(/img/hero/hero-1-2560x1280x60.jpg);
-    }
-  }
-  
+    
   @media screen and (min-width: $bp-small) {
     .welcome {
       .icon-logo {

diff --git a/sass/sections/_gallery.scss b/sass/sections/_gallery.scss
@@ -2,12 +2,17 @@
 
 .gallery {
   background-color: #373734;
-  background-image: url(/img/pattern/pattern-black.svg);
 
   display: flex;
   justify-content: center;
   flex-wrap: nowrap;
   padding-bottom: 0px;
+
+   .img-slot{
+     width: 100%;
+     height: 100%;
+     min-width: 30vw;
+   }
 
   .img-slot-hidden{ 
     display: none;
@@ -36,7 +41,7 @@
       display: block;
     }
     .img-slot{
-      //width: 50%;
+      min-width: 25vw;
     }
   }
 }

diff --git a/index.html b/index.html
@@ -42,7 +42,6 @@
       </div>
       <div class="link-banner">
         <!-- Change this link to change the banner at the bottom of the home section -->
-        <!-- <a href="#">Boulder League score card</a> -->
         <a href="https://docs.google.com/forms/d/e/1FAIpQLSezbjq5-5Ss--_RcwciP9bIlY8drdFjQTpPAjEMUA1NiEMD3w/viewform">Boulder league scorecard</a>
       </div>
     </section>

diff --git a/sass/sections/_facilities.scss b/sass/sections/_facilities.scss
@@ -29,6 +29,9 @@
     #gym, #yoga, #physio, #coffee{
       background-repeat: no-repeat;
       background-position: center; 
+      -webkit-background-size: cover;
+      -moz-background-size: cover;
+      -o-background-size: cover;
       background-size: cover;
       padding-top: 90px;
       padding-bottom: 90px;
